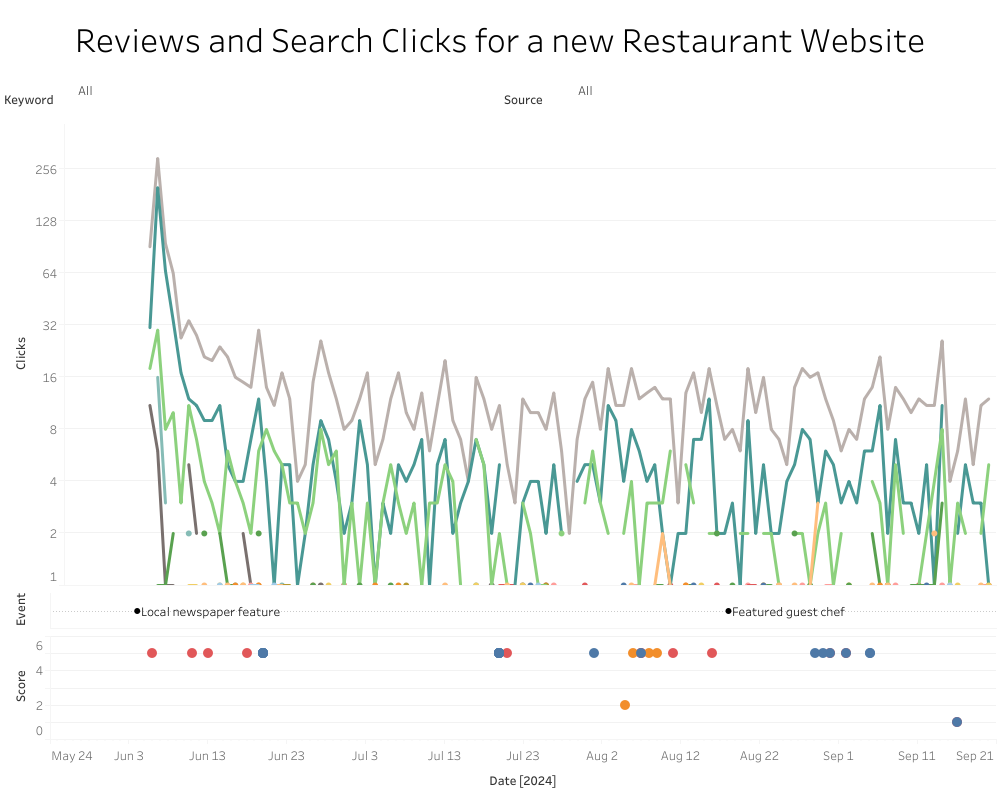
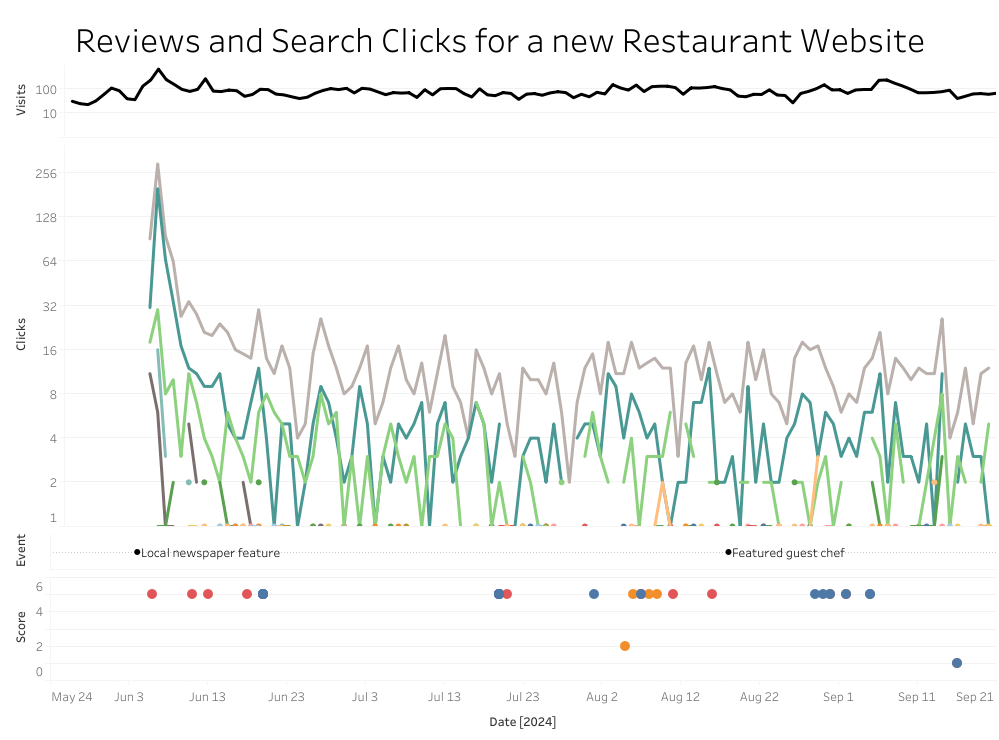
started new post

diff --git a/_posts/2024-09-23-seo.md b/_posts/2024-09-23-seo.md
@@ -1,0 +1,76 @@
+---
+title: "How Do Online Reviews Affect Web Traffic?"
+---
+
+
+I have been working with a small business owner who recently purchased and
+rebranded a restaurant. The new re-launched restaurant has an upscale menu of
+a cuisine that is uncommon in the area, and a selection of exclusive wines. The
+business also hosts special events, live music, and dancing.
+
+We have been focussed on SEO strategy and the general online presence.
+Specifically, we began to wonder how the restaurant's first negative review
+might affect web traffic.
+
+Whenever there is a uncertainty, it is valuable to assess available data. Here
+is the quick analysis I did.
+
+
+## Approach
+
+There is no clear hypothesis to test, so the most appropriate course of action
+is to visualize and/or summarize relevant data. We can then potentially develop
+hypotheses or KPIs to investigate using future data.
+
+My approach was simply to combine several relevant datasets, align them over
+time, and visually look for patterns. Smoothing is an option, but I have enough
+experience that I can generally identify patterns without them and I prefer to
+see the variability of the raw data.
+
+Data were obtained for the time from website launch (May 25) through
+September 20. I combined the following datasets:
+
+<script style="text/javascript">
+function toggleFootnote(id){
+  if(document.getElementById(id).style.display == 'none'){
+    document.getElementById(id).style.display = 'inline'
+  }else{
+    document.getElementById(id).style.display = 'none'
+  }
+}
+</script>
+
+- Daily website visits from Squarespace
+- Daily search clicks from Google Search Console
+  - I included the totals as well as the clicks for each search term that had at
+    least 5 clicks in the entire time period
+  - Most of the search terms included the name of the business; I have
+    anonymized these for public posting
+- Review scores and dates from
+  Google<a onclick="toggleFootnote('gfootnote')">\*</a>, Tripadvisor, and Yelp
+  - I also pulled out some keywords from the review text and anonymized these
+- I created an "events" dataset to represent two notable events: a newspaper
+  feature on June 6 and a special event featuring a well-known guest chef on
+  August 18
+
+I then plotted these over time on a Tableau dashboard.
+
+<i id="gfootnote" style="{display:none}">
+Note: Google only reports review dates as "\_\_ days/weeks/months ago". I
+cross-referenced the reviews to other sites where possible (i.e. looked for an
+identical review or another review obviously from the same person around the
+same time) to impute dates. Where this was not possible, I subtracted the
+stated time interval from the date of data collection (September 20).
+Therefore the earlier Google review dates are approximate and the reviews may
+actually be older than the reported date.
+</i>
+
+
+## Analysis
+
+[![Figure showing daily number of search clicks over time as lines and review scores as points. Most of the reviews are 5 out of 5 and little pattern is obvious.]({{ site.url }}{{ site.baseurl }}/assets/seo/reviews_clicks.png)](https://public.tableau.com/views/ReviewsandSearchClicks/ReviewsandClicks?:language=en-US&:sid=&:redirect=auth&:display_count=n&:origin=viz_share_link)
+
+
+## Discussion and Commentary
+
+
